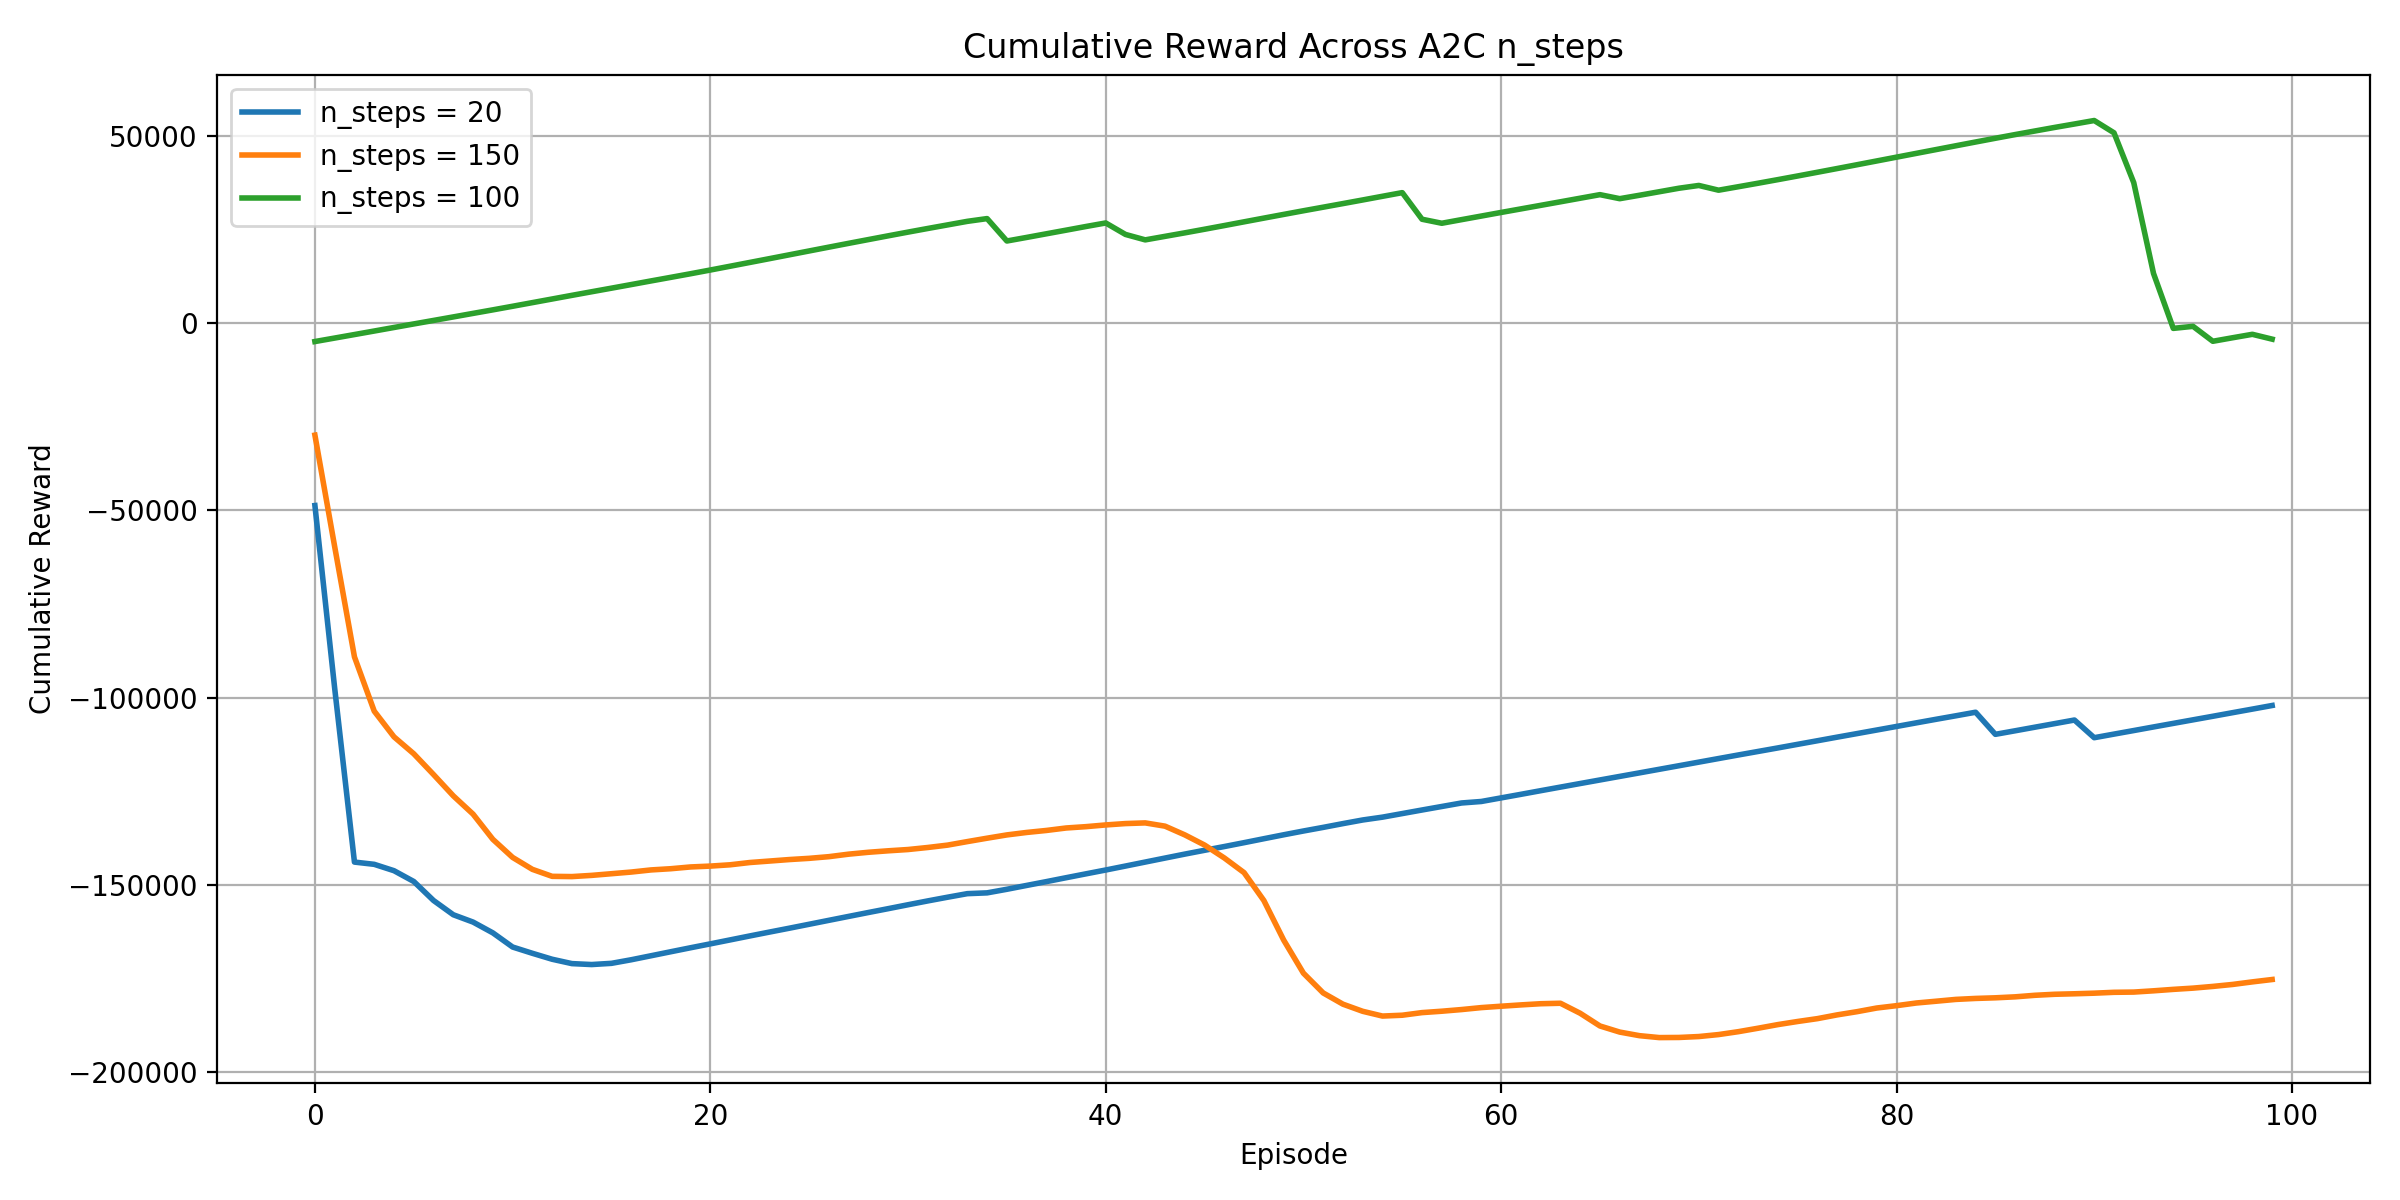
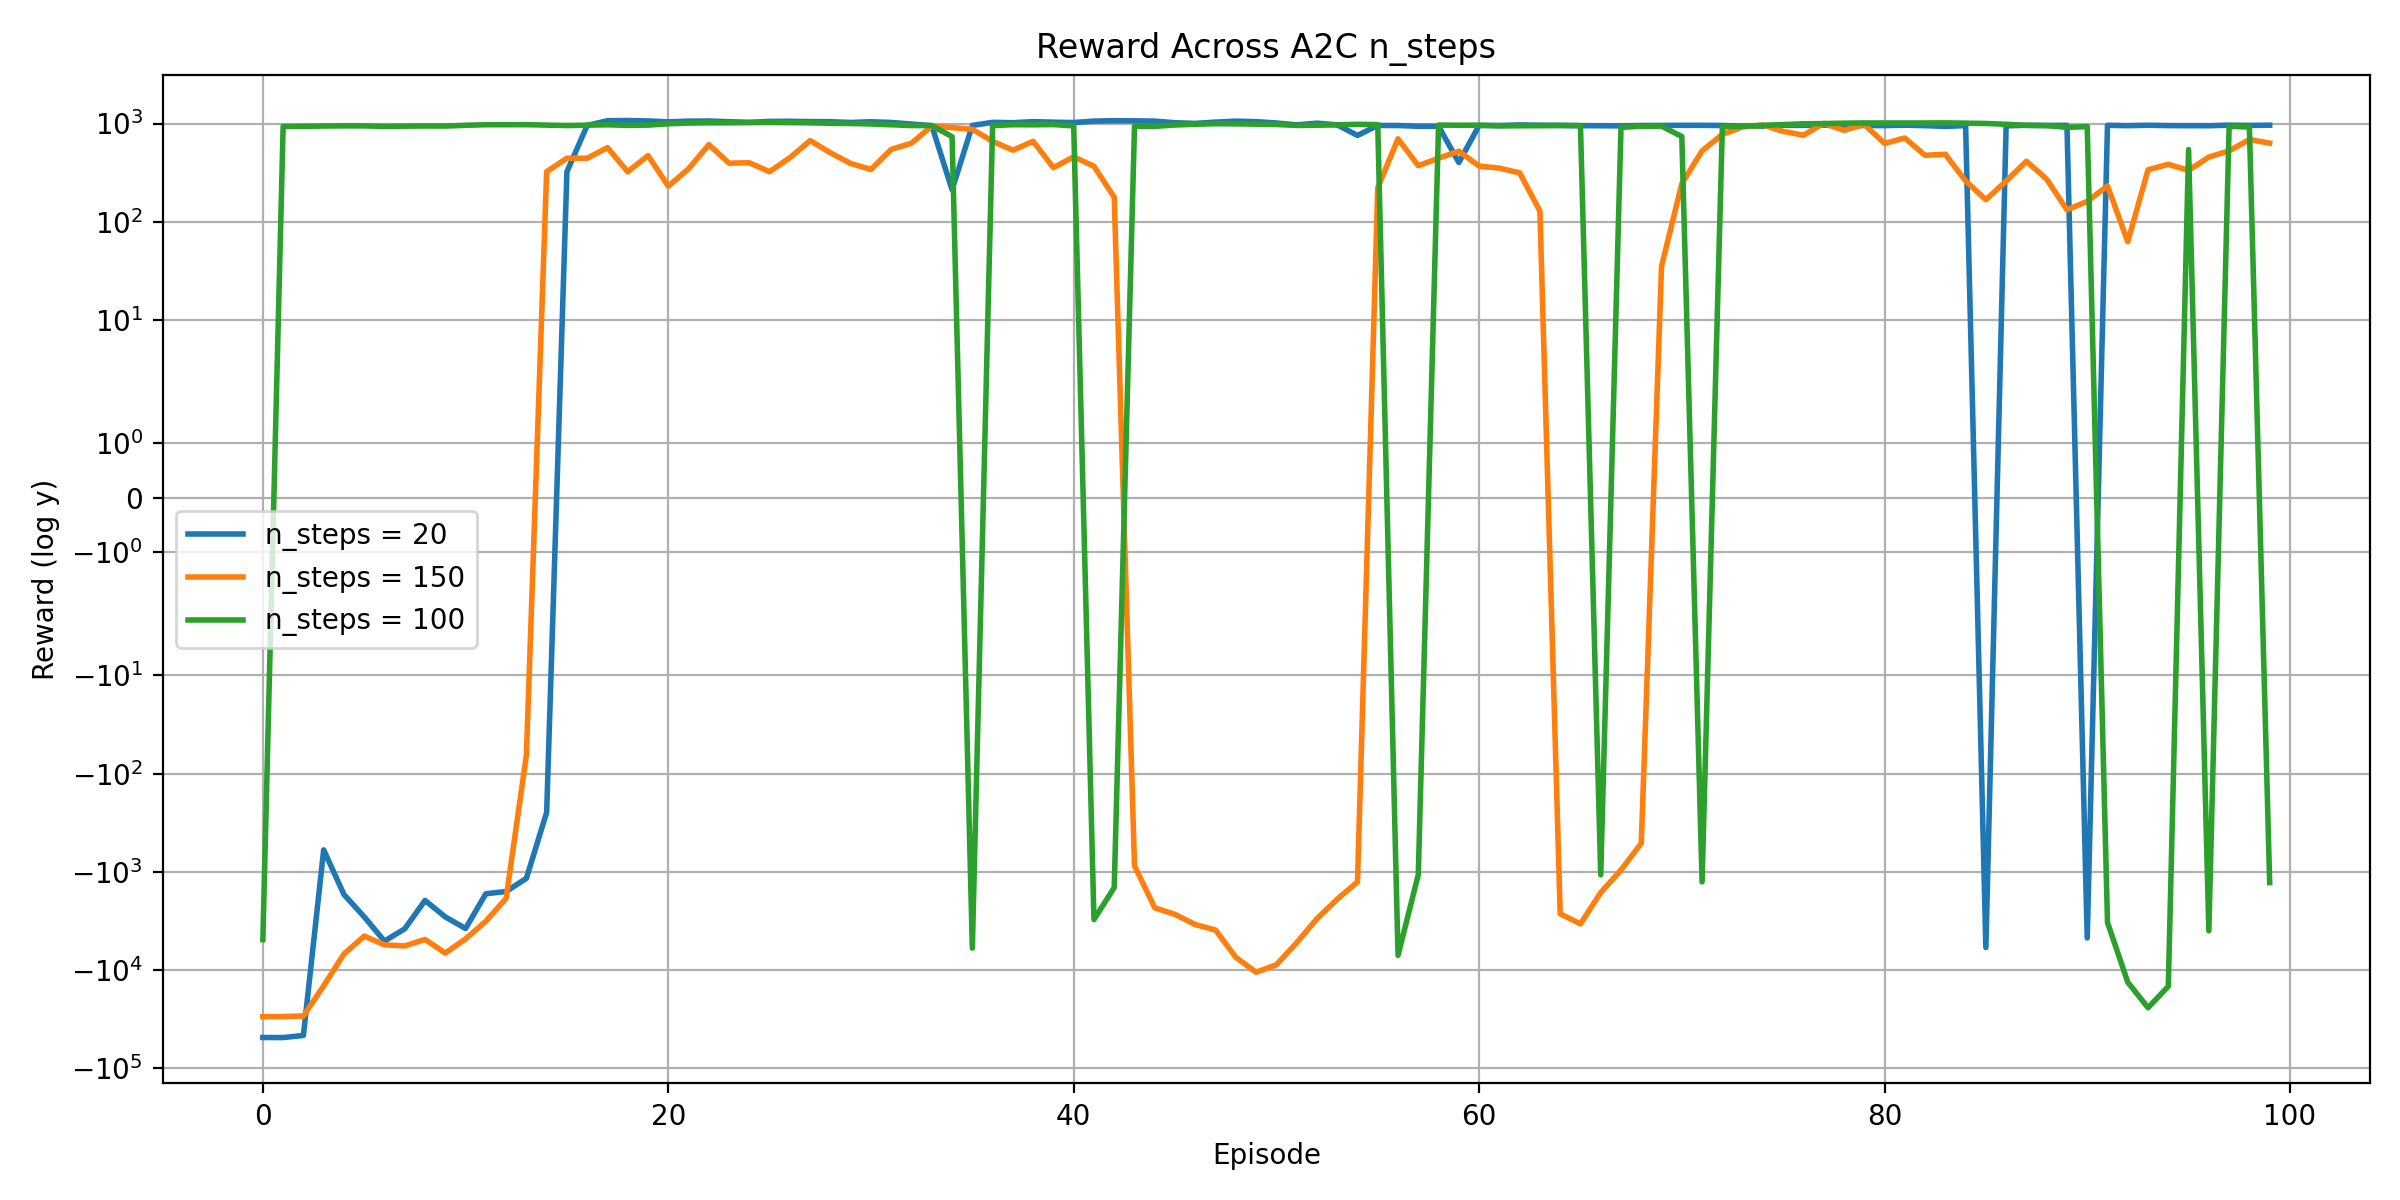
bug fix and plot error in plot_a2c_comp, created new cumulative_all_rewards_subplots

diff --git a/plot_a2c_comp.py b/plot_a2c_comp.py
@@ -59,16 +59,17 @@ print_metrics(f"{PARAMETER} = {PARAM_VALUES[2]}", metrics3)
 
 # Plot raw episode rewards
 plt.figure(figsize=(12, 6))
-plt.plot(np.cumsum(rewards1), label=f"{PARAMETER} = {PARAM_VALUES[0]}", linewidth=2)
-plt.plot(np.cumsum(rewards2), label=f"{PARAMETER} = {PARAM_VALUES[1]}", linewidth=2)
-plt.plot(np.cumsum(rewards3), label=f"{PARAMETER} = {PARAM_VALUES[2]}", linewidth=2)
+plt.plot(rewards1, label=f"{PARAMETER} = {PARAM_VALUES[0]}", linewidth=2)
+plt.plot(rewards2, label=f"{PARAMETER} = {PARAM_VALUES[1]}", linewidth=2)
+plt.plot(rewards3, label=f"{PARAMETER} = {PARAM_VALUES[2]}", linewidth=2)
 
 plt.xlabel("Episode")
-plt.ylabel("Cumulative Reward")
-plt.title(f"Cumulative Reward Across A2C {PARAMETER}")
+plt.yscale("symlog")
+plt.ylabel("Reward (log y)")
+plt.title(f"Reward Across A2C {PARAMETER}")
 plt.legend()
 plt.grid(True)
 plt.tight_layout()
-plt.savefig(f".models/a2c/a2c {PARAMETER} comp.png", dpi=200)
+plt.savefig(f"./models/a2c/a2c {PARAMETER} comp.png", dpi=200)
 plt.show()
 plt.close()
